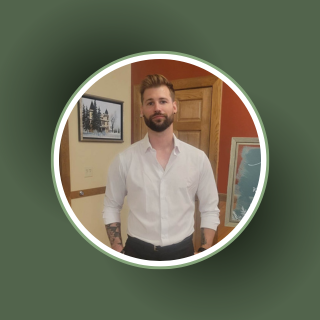
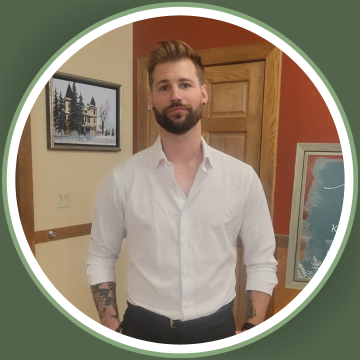
Test changes green color

diff --git a/css/styles.css b/css/styles.css
@@ -42,7 +42,7 @@
   --bs-danger: #dc3545;
   --bs-light: #f8f9fa;
   --bs-dark: #212529;
-  --bs-primary-rgb: 26, 188, 156;
+  --bs-primary-rgb: 85, 107, 47;
   --bs-secondary-rgb: 44, 62, 80;
   --bs-success-rgb: 25, 135, 84;
   --bs-info-rgb: 13, 202, 240;
